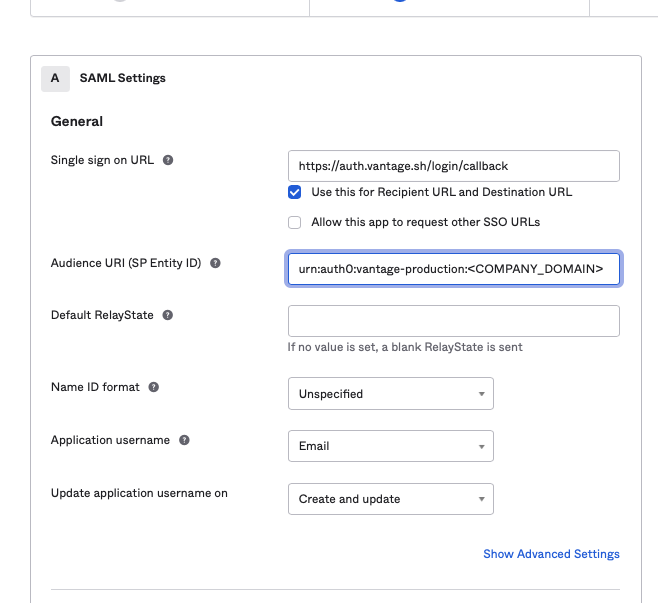
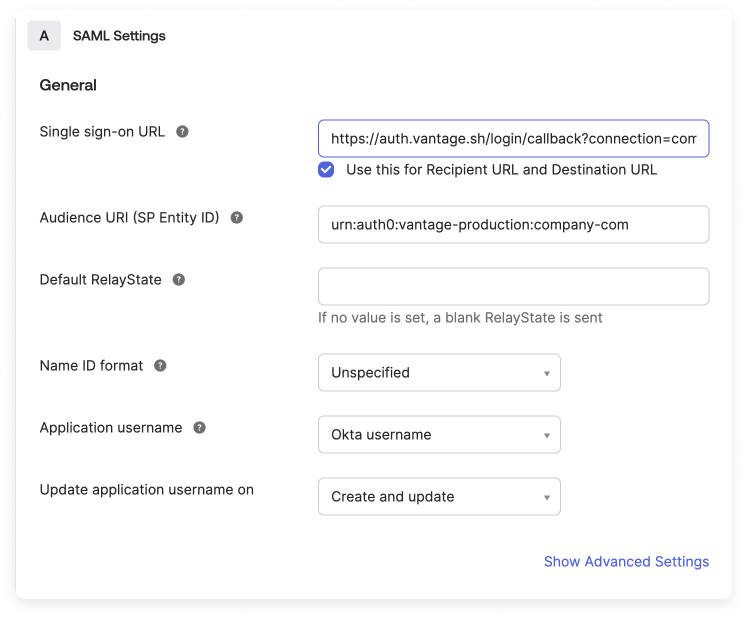
Tweaks to sso for clarity

diff --git a/docs/sso.md b/docs/sso.md
@@ -77,13 +77,14 @@ For detailed instructions, see the [Okta support documentation](https://help.okt
 <div> 
 <img alt="Okta app settings" width="80%" src="/img/saml_okta_app_name.png"/> </div>
 </details>
-5. Enter the requested **Single sign on URL** (`https://auth.vantage.sh/login/callback`) and **Audience URI (SP Entity ID)** (for example, `urn:auth0:vantage-production:acme-com`), provided on the Vantage Authentication setup page.
+5. Enter the requested **Single sign on URL** (for example, `https://auth.vantage.sh/login/callback?connection=company-com`) and **Audience URI (SP Entity ID)** (for example, `urn:auth0:vantage-production:company-com`), provided on the Vantage Authentication setup page.
 <details><summary>Expand to view example image</summary>
 <div>
 <img alt="Okta SAML settings" width="80%" src="/img/saml_okta_settings.png"/> </div>
 </details>
 6. Set the **Application username** to **Email**.
 7. Once the app integration is set up, copy the Okta-provided **Identity Provider Single Sign On URL** and **X.509 Certificate** back into Vantage.
+8. To enable the connection, switch the Active toggle to on. You will remain logged in to Vantage, but the next time you attempt to log in, you will be redirected to the Okta sign-on page.
 
 ### Test Your SSO Configuration
 
